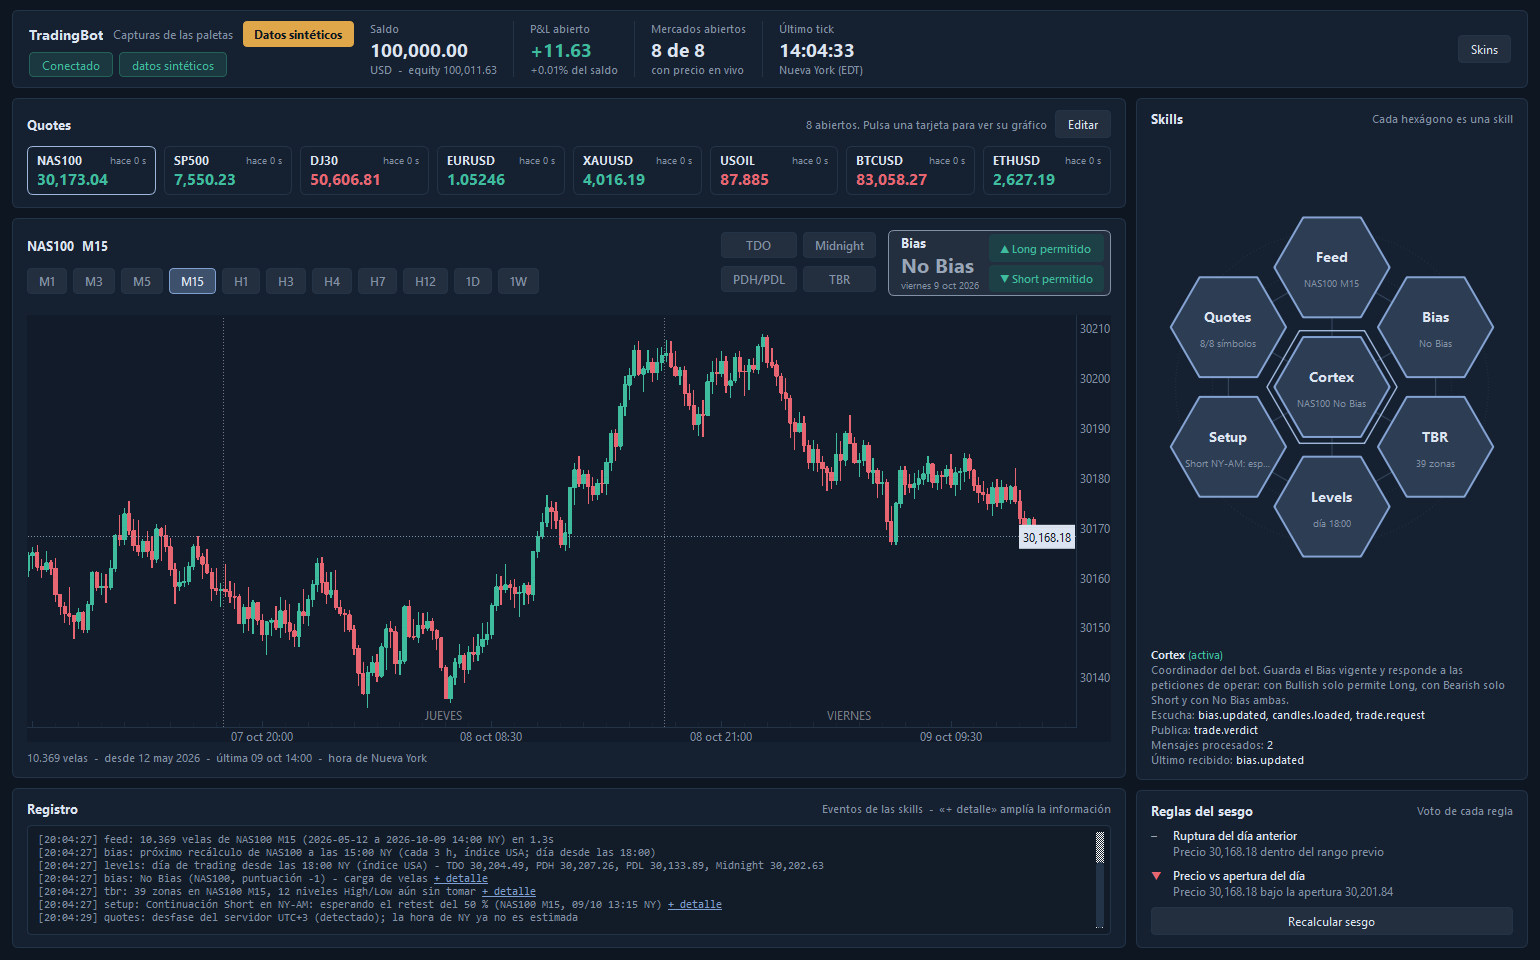
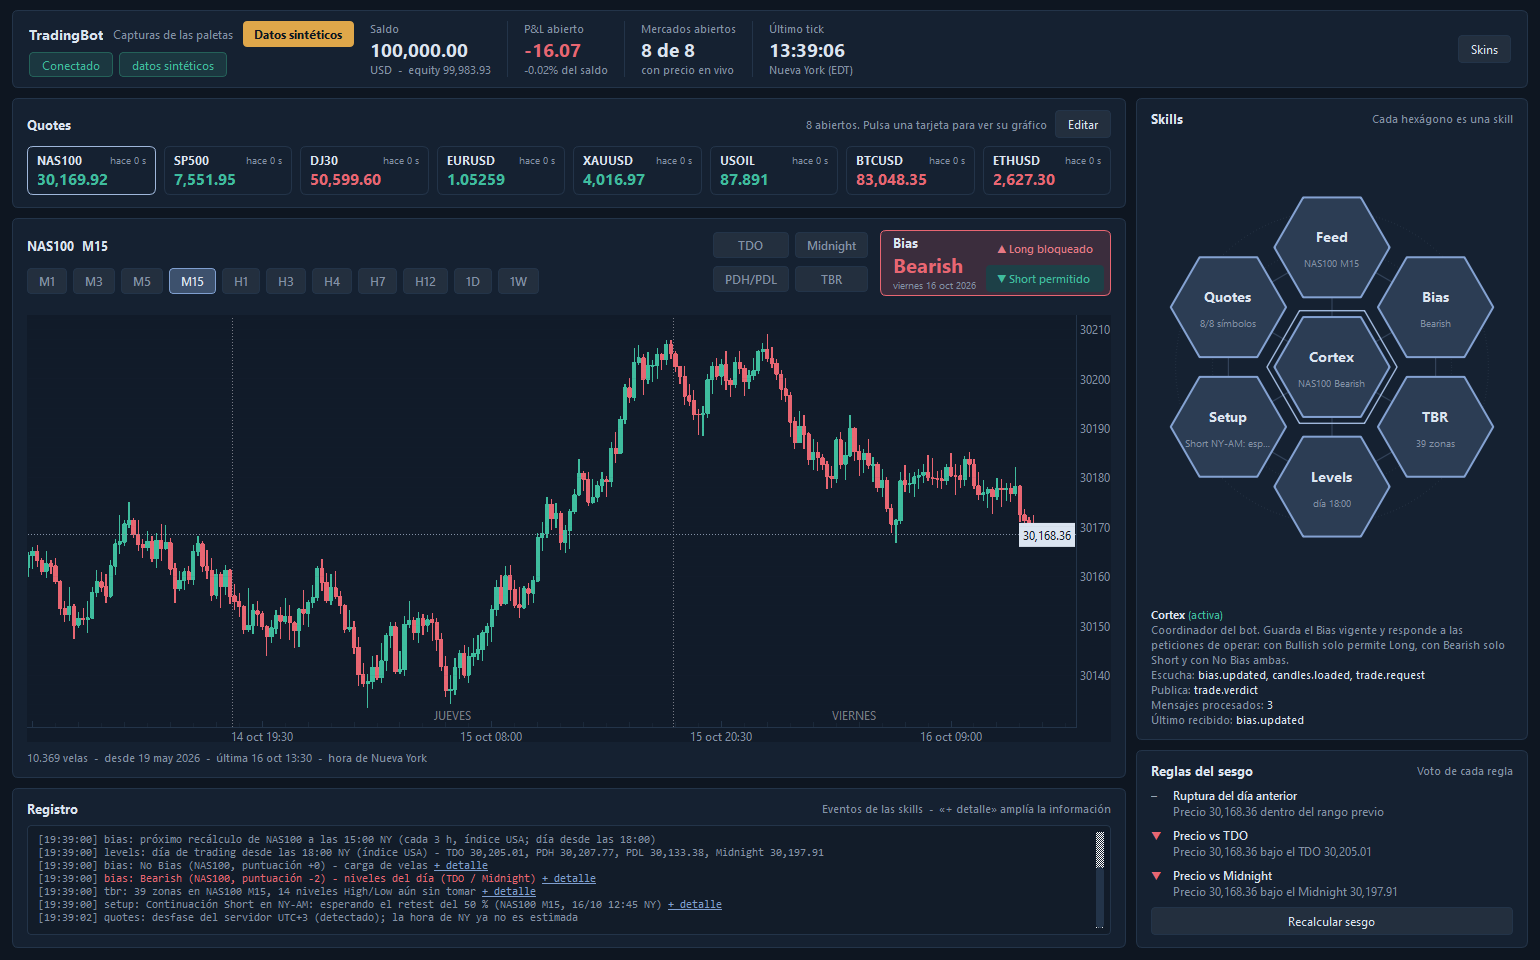
Bias: reglas de relación del precio con el TDO y el Midnight
Reglas tdo y midnight (peso 1 cada una, con tolerancia opcional) que leen los niveles de la
skill Levels; el sesgo se recalcula cuando cambian. Reglas por defecto: prev_day_break, tdo,
midnight (above_below_open queda disponible pero la sustituye el TDO).

diff --git a/tests/test_bias.py b/tests/test_bias.py
@@ -110,3 +110,69 @@ def test_trade_filter():
     assert f.check(Direction.LONG)[0] is True
     allowed, reason = f.check(Direction.SHORT)
     assert allowed is False and "bloqueado" in reason
+
+
+# -- reglas TDO y Midnight ---------------------------------------------------------------------------------
+from tradingbot.skills.bias.rules import AboveBelowMidnight, AboveBelowTdo   # noqa: E402
+
+
+def test_regla_tdo_vota_segun_el_precio_y_el_nivel():
+    candles = make_candles((1.0, 1.1), 1.04, 1.06)                       # el último precio es 1,06
+    sobre = BiasEngine([AboveBelowTdo()]).evaluate(candles, levels={"tdo": 1.05})
+    assert sobre.votes[0].vote == 1 and "sobre el TDO" in sobre.votes[0].detail and sobre.levels["TDO"] == 1.05
+    bajo = BiasEngine([AboveBelowTdo()]).evaluate(candles, levels={"tdo": 1.08})
+    assert bajo.votes[0].vote == -1 and "bajo el TDO" in bajo.votes[0].detail
+    en_nivel = BiasEngine([AboveBelowTdo(tolerance_pct=1)]).evaluate(candles, levels={"tdo": 1.055})
+    assert en_nivel.votes[0].vote == 0                                   # dentro de la zona neutra
+    sin = BiasEngine([AboveBelowTdo()]).evaluate(candles)
+    assert sin.votes[0].vote == 0 and "Sin TDO" in sin.votes[0].detail
+
+
+def test_regla_midnight_no_vota_hasta_que_existe():
+    candles = make_candles((1.0, 1.1), 1.04, 1.06)
+    antes = BiasEngine([AboveBelowMidnight()]).evaluate(candles, levels={"tdo": 1.05})
+    assert antes.votes[0].vote == 0 and "Aún no hay Midnight" in antes.votes[0].detail
+    despues = BiasEngine([AboveBelowMidnight()]).evaluate(candles, levels={"tdo": 1.05, "midnight": 1.1})
+    assert despues.votes[0].vote == -1 and despues.levels["Midnight"] == 1.1
+
+
+def test_tdo_y_midnight_juntos_dan_sesgo_y_opuestos_se_anulan():
+    candles = make_candles((1.0, 1.1), 1.04, 1.06)
+    eng = BiasEngine([AboveBelowTdo(), AboveBelowMidnight()], min_score=2)
+    assert eng.evaluate(candles, levels={"tdo": 1.0, "midnight": 1.03}).bias is Bias.BULLISH      # +1 +1
+    assert eng.evaluate(candles, levels={"tdo": 1.0, "midnight": 1.09}).bias is Bias.NO_BIAS      # +1 -1
+    assert eng.evaluate(candles, levels={"tdo": 1.09, "midnight": 1.08}).bias is Bias.BEARISH     # -1 -1
+    # con la ruptura del día anterior (peso 2) por delante de ambos
+    full = BiasEngine([PrevDayBreak(), AboveBelowTdo(), AboveBelowMidnight()], min_score=2)
+    assert full.evaluate(make_candles((1.0, 1.1), 1.10, 1.12), levels={"tdo": 1.0, "midnight": 1.11}).score == 4        # +2 +1 +1
+
+
+def test_la_skill_bias_recalcula_cuando_llegan_los_niveles_del_dia():
+    import time
+    from tradingbot.core import EventBus, Services, SkillManager
+    from tradingbot.envconfig import EnvConfig
+    from tradingbot.skills.levels.daylevels import Line
+    import tradingbot.skills  # noqa: F401
+    bus, events = EventBus(), []
+    bus.subscribe("t", "bias.updated", events.append)
+    engine_ = BiasEngine([PrevDayBreak(), AboveBelowTdo(), AboveBelowMidnight()], min_score=2)
+    manager = SkillManager(bus, Services(None, engine_, {"app": {}}, EnvConfig()), [{"type": "bias"}])
+    manager.start()
+    df = make_candles((1.0, 1.1), 1.04, 1.06)
+    bus.publish("candles.loaded", {"symbol": "EURUSD", "timeframe": "15m", "df": df}, source="feed")
+    deadline = time.time() + 3
+    while not events and time.time() < deadline:
+        time.sleep(0.02)
+    assert events[-1].payload["result"].votes[1].detail.startswith("Sin TDO")       # aún sin niveles
+    lines = [Line("tdo", 1.0, 0, 9), Line("midnight", 1.03, 4, 9), Line("tdo", 1.05, 20, 30), Line("midnight", 1.09, 12, 30)]
+    bus.publish("levels.updated", {"symbol": "EURUSD", "timeframe": "15m", "lines": lines, "days": [], "day_start": 1020,
+                                   "available": True}, source="levels")
+    while len(events) < 2 and time.time() < deadline:
+        time.sleep(0.02)
+    manager.stop()
+    p = events[-1].payload
+    assert p["reason"].startswith("niveles del día")
+    votes = p["result"].votes
+    # el TDO de hoy es el último (1,05); el Midnight válido es el posterior a él: ninguno (el de x0=12 es de ayer)
+    assert votes[1].vote == 1 and "1.05" in votes[1].detail
+    assert votes[2].vote == 0 and "Aún no hay Midnight" in votes[2].detail

diff --git a/tradingbot/skills/bias/skill.py b/tradingbot/skills/bias/skill.py
@@ -29,6 +29,8 @@ class BiasSkill(Skill):
         self._setup: dict | None = None
         self._next: datetime | None = None
         self._plan: tuple | None = None          # (símbolo, timeframe, inicio del día, horas, índice USA)
+        self._levels: dict | None = None         # último levels.updated (TDO y Midnight para las reglas)
+        self._eval_levels: dict = {}             # niveles con los que se calculó el sesgo vigente
         self._reason = "carga de velas"
         # tradingbot.env, bloque BIAS
         self.index_hours = self.settings.get_float("RECALC_INDEX_HOURS", DEFAULT_INDEX_HOURS)
@@ -44,7 +46,10 @@ class BiasSkill(Skill):
         topic, p = event.topic, event.payload
         if topic == "levels.updated":
             self._schedule(p["symbol"], p["timeframe"], p["day_start"], p.get("us_index", False))
-            return
+            self._levels = p
+            if self._last is None or self._day_levels() == self._eval_levels:
+                return
+            self._reason = "niveles del día (TDO / Midnight)"     # han cambiado: hay que recalcular con ellos
         if topic == "setup.updated":
             self._setup = p
             self._execution()
@@ -67,13 +72,29 @@ class BiasSkill(Skill):
             self._reason = "a petición (botón Recalcular)"
         if self._last is None:
             return
-        self.result = self.services.engine.evaluate(self._last["df"])
+        self._eval_levels = self._day_levels()
+        self.result = self.services.engine.evaluate(self._last["df"], levels=self._eval_levels)
         self.result_symbol = self._last["symbol"]
         self.set_caption(self.result.bias.value)
         self.publish("bias.updated", {"result": self.result, "symbol": self._last["symbol"],
                                       "timeframe": self._last["timeframe"], "reason": self._reason})
         self._reason = "carga de velas"
         self._execution()
+
+    def _day_levels(self) -> dict:
+        """TDO y Midnight del día en curso, de la skill Levels, si corresponden a las velas con las que se evalúa."""
+        p, c = self._levels, self._last
+        if p is None or c is None or not p.get("available") or (p["symbol"], p["timeframe"]) != (c["symbol"], c["timeframe"]):
+            return {}
+        today: dict[str, float] = {}
+        tdo = max((ln for ln in p["lines"] if ln.kind == "tdo"), key=lambda ln: ln.x0, default=None)
+        if tdo is not None:
+            today["tdo"] = tdo.price
+            # el Midnight del día en curso: el que empieza después del TDO de hoy (antes de las 00:00 NY aún no existe)
+            mid = max((ln for ln in p["lines"] if ln.kind == "midnight" and ln.x0 > tdo.x0), key=lambda ln: ln.x0, default=None)
+            if mid is not None:
+                today["midnight"] = mid.price
+        return today
 
     def tick(self) -> None:
         """Si ha llegado la hora del recálculo, pide velas nuevas al feed (el sesgo se recalcula al llegar)."""

diff --git a/tradingbot/skills/bias/rules.py b/tradingbot/skills/bias/rules.py
@@ -88,3 +88,44 @@ class AboveBelowOpen(BiasRule):
         if price < day_open - tol:
             return self.vote(-1, f"Precio {fmt_price(price)} bajo la apertura {fmt_price(day_open)}")
         return self.vote(0, f"Precio {fmt_price(price)} en la apertura {fmt_price(day_open)}")
+
+
+def _level_vote(rule: BiasRule, ctx: BiasContext, level: float | None, name: str, missing: str) -> RuleVote:
+    """Voto de una regla de nivel: +1 con el precio por encima del nivel, -1 por debajo, 0 sobre él (zona neutra opcional)."""
+    price = ctx.last_price
+    if price is None or level is None:
+        return rule.vote(0, missing)
+    tol = level * float(rule.params.get("tolerance_pct", 0.0)) / 100.0
+    if price > level + tol:
+        return rule.vote(1, f"Precio {fmt_price(price)} sobre {name} {fmt_price(level)}")
+    if price < level - tol:
+        return rule.vote(-1, f"Precio {fmt_price(price)} bajo {name} {fmt_price(level)}")
+    return rule.vote(0, f"Precio {fmt_price(price)} en {name} {fmt_price(level)}")
+
+
+@register_rule("tdo")
+class AboveBelowTdo(BiasRule):
+    """Relación del precio con el TDO (True Day Open): la apertura del día de trading de ese activo.
+
+    El día empieza a las 18:00 de NY en los índices americanos y a las 17:00 en el resto (LEVELS_INDEX_DAY_START /
+    LEVELS_DAY_START). Por encima del TDO -> alcista; por debajo -> bajista. Necesita la skill Levels.
+    Parámetro opcional: tolerance_pct (zona neutra alrededor del nivel, en %).
+    """
+    title = "Precio vs TDO"
+
+    def evaluate(self, ctx: BiasContext) -> RuleVote:
+        return _level_vote(self, ctx, ctx.tdo, "el TDO", "Sin TDO del día (skill Levels apagada o timeframe grande)")
+
+
+@register_rule("midnight")
+class AboveBelowMidnight(BiasRule):
+    """Relación del precio con el Midnight: la apertura de las 00:00 de Nueva York del día en curso.
+
+    Por encima -> alcista; por debajo -> bajista. Antes de las 00:00 NY todavía no existe y no vota.
+    Necesita la skill Levels. Parámetro opcional: tolerance_pct.
+    """
+    title = "Precio vs Midnight"
+
+    def evaluate(self, ctx: BiasContext) -> RuleVote:
+        return _level_vote(self, ctx, ctx.midnight, "el Midnight",
+                           "Aún no hay Midnight (antes de las 00:00 NY) o la skill Levels está apagada")

diff --git a/tradingbot/skills/bias/context.py b/tradingbot/skills/bias/context.py
@@ -1,7 +1,7 @@
 """Contexto que reciben las reglas: velas del día en curso y del día anterior."""
 from __future__ import annotations
 
-from dataclasses import dataclass
+from dataclasses import dataclass, field
 from datetime import date
 
 import pandas as pd
@@ -13,6 +13,17 @@ class BiasContext:
     day: date                      # día de trading evaluado (hora del servidor del broker)
     today: pd.DataFrame            # velas de ese día
     prev: pd.DataFrame | None      # velas del día de trading anterior (si existe)
+    levels: dict[str, float] = field(default_factory=dict)   # niveles del día que calcula la skill Levels: "tdo", "midnight"
+
+    @property
+    def tdo(self) -> float | None:
+        """True Day Open: apertura del día de trading (18:00 NY en índices americanos, 17:00 en el resto)."""
+        return self.levels.get("tdo")
+
+    @property
+    def midnight(self) -> float | None:
+        """Apertura de las 00:00 de Nueva York; None hasta que esa vela existe."""
+        return self.levels.get("midnight")
 
     @property
     def last_price(self) -> float | None:
@@ -35,7 +46,7 @@ class BiasContext:
         return float(self.prev["close"].iloc[-1]) if self.prev is not None and len(self.prev) else None
 
 
-def build_context(candles: pd.DataFrame, day: date | None = None) -> BiasContext | None:
+def build_context(candles: pd.DataFrame, day: date | None = None, levels: dict | None = None) -> BiasContext | None:
     """Construye el contexto del día indicado (por defecto, el de la última vela)."""
     if candles is None or len(candles) == 0:
         return None
@@ -47,4 +58,4 @@ def build_context(candles: pd.DataFrame, day: date | None = None) -> BiasContext
     today = window[dates == day]
     earlier = sorted(d for d in dates.unique() if d < day)
     prev = window[dates == earlier[-1]] if earlier else None
-    return BiasContext(candles=candles, day=day, today=today, prev=prev)
+    return BiasContext(candles=candles, day=day, today=today, prev=prev, levels=dict(levels or {}))

diff --git a/tradingbot/skills/bias/engine.py b/tradingbot/skills/bias/engine.py
@@ -35,8 +35,9 @@ class BiasEngine:
             rules.append(RULE_REGISTRY[key](**params))
         return cls(rules, cfg.get("min_score", 1), cfg.get("require_all", False))
 
-    def evaluate(self, candles: pd.DataFrame, day: date | None = None) -> BiasResult:
-        ctx = build_context(candles, day)
+    def evaluate(self, candles: pd.DataFrame, day: date | None = None, levels: dict | None = None) -> BiasResult:
+        """`levels`: niveles del día de la skill Levels ("tdo", "midnight") para las reglas que los usan."""
+        ctx = build_context(candles, day, levels)
         if ctx is None or len(ctx.today) == 0:
             return BiasResult(Bias.NO_BIAS, day, summary="Sin velas para evaluar el día")
 
@@ -55,6 +56,10 @@ class BiasEngine:
             levels["Mín. previo"] = ctx.prev_low
         if ctx.day_open is not None:
             levels["Apertura"] = ctx.day_open
+        if ctx.tdo is not None:
+            levels["TDO"] = ctx.tdo
+        if ctx.midnight is not None:
+            levels["Midnight"] = ctx.midnight
         return BiasResult(bias, ctx.day, tuple(votes), levels, summary, score, self.min_score)
 
     def _aggregate(self, votes: list[RuleVote]) -> tuple[Bias, str]:

diff --git a/tradingbot/config.py b/tradingbot/config.py
@@ -26,7 +26,7 @@ DEFAULT_SKILLS = ({"type": "cortex"}, {"type": "feed"}, {"type": "bias"}, {"type
 # Valores por defecto de tradingbot.env
 DEFAULT_SYMBOL = "EURUSD"                                     # FEED_SYMBOL
 DEFAULT_MAX_BARS = 2_000_000                                  # FEED_MAX_BARS
-DEFAULT_BIAS_RULES = ("prev_day_break", "above_below_open")   # BIAS_RULES
+DEFAULT_BIAS_RULES = ("prev_day_break", "tdo", "midnight")   # BIAS_RULES
 DEFAULT_MIN_SCORE = 2                                         # BIAS_MIN_SCORE
 DEFAULT_REQUIRE_ALL = False                                   # BIAS_REQUIRE_ALL
 

diff --git a/README.md b/README.md
@@ -138,7 +138,7 @@ en bloques comentados, uno por skill o parte del bot. Cada clave empieza por el 
 | `QUOTES_INTERVAL` | `1` | Segundos entre refrescos del panel Quotes y de las cifras de la cuenta (admite decimales). |
 | `QUOTES_SERVER_UTC_OFFSET` | vacío | Desfase del servidor del broker respecto a UTC, en horas. Vacío: se detecta solo con los ticks en vivo. |
 | **BIAS** — sesgo del día | | |
-| `BIAS_RULES` | `prev_day_break, above_below_open` | Reglas activas, separadas por comas. `ninguna`: sin reglas (siempre No Bias). |
+| `BIAS_RULES` | `prev_day_break, tdo, midnight` | Reglas activas, separadas por comas (`prev_day_break`, `tdo`, `midnight`, `above_below_open`). `ninguna`: sin reglas (siempre No Bias). |
 | `BIAS_MIN_SCORE` | `2` | Puntuación mínima (suma de voto x peso) para que haya sesgo. |
 | `BIAS_RECALC_INDEX_HOURS` / `BIAS_RECALC_HOURS` | `3` / `4` | Cada cuántas horas se recalcula el sesgo solo, alineado con el inicio del día de trading: índices USA / resto. `0`: desactivado. |
 | `BIAS_EXEC_ALLOW_NO_BIAS` | `false` | `true`: con No Bias también se da GO a los setups. |
@@ -210,18 +210,29 @@ ponlo en **Ilimitado** y reinicia el terminal. El historial disponible depende t
 Cada regla vota +1 (alcista), -1 (bajista) o 0 (sin opinión). Se configura en el bloque BIAS de `tradingbot.env`:
 
 ```ini
-BIAS_RULES=prev_day_break, above_below_open   # reglas activas
+BIAS_RULES=prev_day_break, tdo, midnight       # reglas activas
 BIAS_MIN_SCORE=2                              # puntuación mínima (voto x peso)
 BIAS_PREV_DAY_BREAK_WEIGHT=2                  # peso de cada regla
 BIAS_REQUIRE_ALL=false                        # true: todas las reglas activas deben coincidir
-BIAS_ABOVE_BELOW_OPEN_TOLERANCE_PCT=0         # parámetro tolerance_pct de above_below_open
+BIAS_TDO_TOLERANCE_PCT=0                      # parámetro tolerance_pct de la regla tdo
 ```
 
 - `BIAS_REQUIRE_ALL=false`: cada regla suma voto x peso; hay sesgo si la puntuación llega a `+BIAS_MIN_SCORE` (Bullish) o `-BIAS_MIN_SCORE` (Bearish). Si no, **No Bias**.
 - `BIAS_REQUIRE_ALL=true`: solo hay sesgo si todas las reglas votan lo mismo.
 - Para desactivar una regla, quítala de `BIAS_RULES`.
 
-Las dos reglas incluidas (`prev_day_break`, `above_below_open`) son **solo ejemplos** para ver el sistema funcionando. Sustitúyelas por tus criterios.
+Reglas incluidas (cada una vota +1, -1 o 0 y tiene su peso `BIAS_<REGLA>_WEIGHT`):
+
+| Regla | Peso | Vota |
+|---|---:|---|
+| `prev_day_break` | 2 | +1 si el precio supera el máximo del día anterior, -1 si cae bajo el mínimo. |
+| `tdo` | 1 | +1 sobre el **TDO** (True Day Open: apertura del día de trading, 18:00 NY en índices americanos y 17:00 en el resto), -1 bajo él. |
+| `midnight` | 1 | +1 sobre la apertura de las **00:00 de Nueva York**, -1 bajo ella. No vota hasta que existe esa vela. |
+| `above_below_open` | 1 | Apertura del día por fecha del servidor. La sustituye `tdo`: no las actives juntas (contaría doble). |
+
+`tdo` y `midnight` usan los niveles de la skill Levels (si está apagada o el timeframe es grande, votan 0). Con `BIAS_MIN_SCORE=2`,
+`prev_day_break` por sí sola basta para tener sesgo, y TDO y Midnight juntos en el mismo sentido también; si apuntan a lados
+opuestos se anulan. El sesgo se recalcula también cuando cambian el TDO o el Midnight (por ejemplo, al llegar las 00:00 NY).
 
 El día se determina con la hora del servidor del broker (la que muestra MT5), que puede no coincidir con tu hora local.
 El sesgo se calcula al cargar velas y al pulsar *Recalcular sesgo*.
